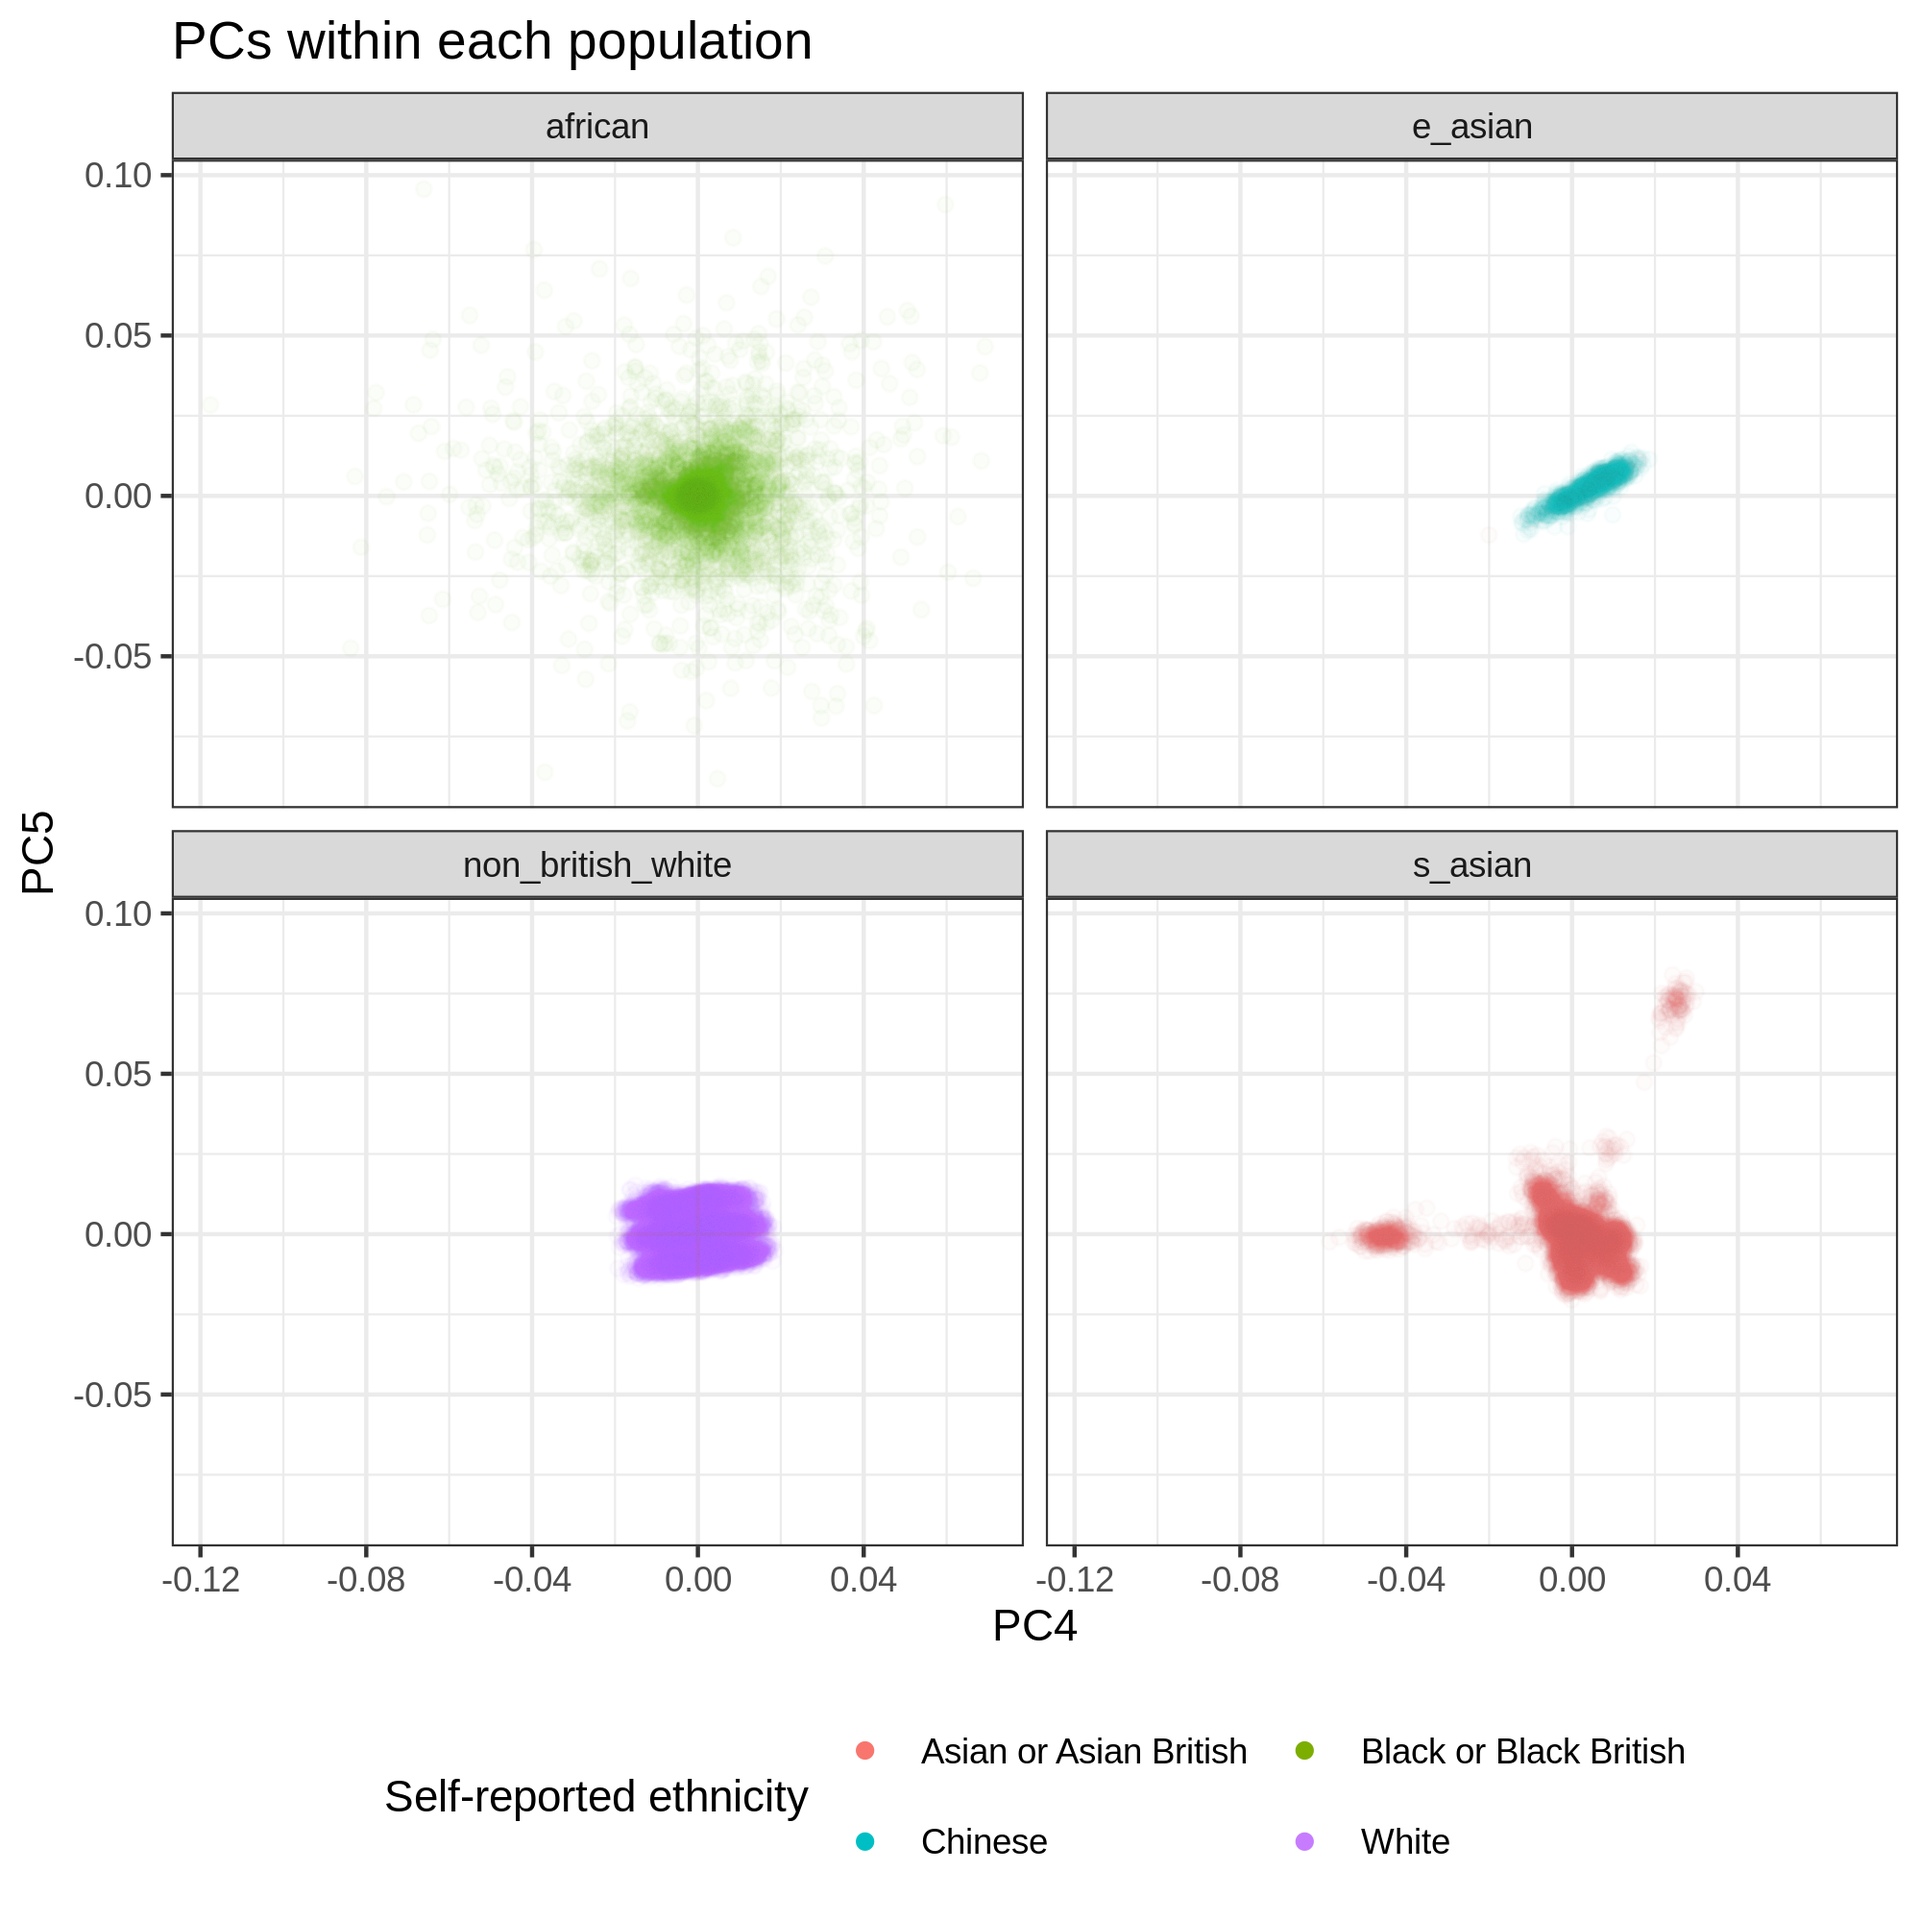
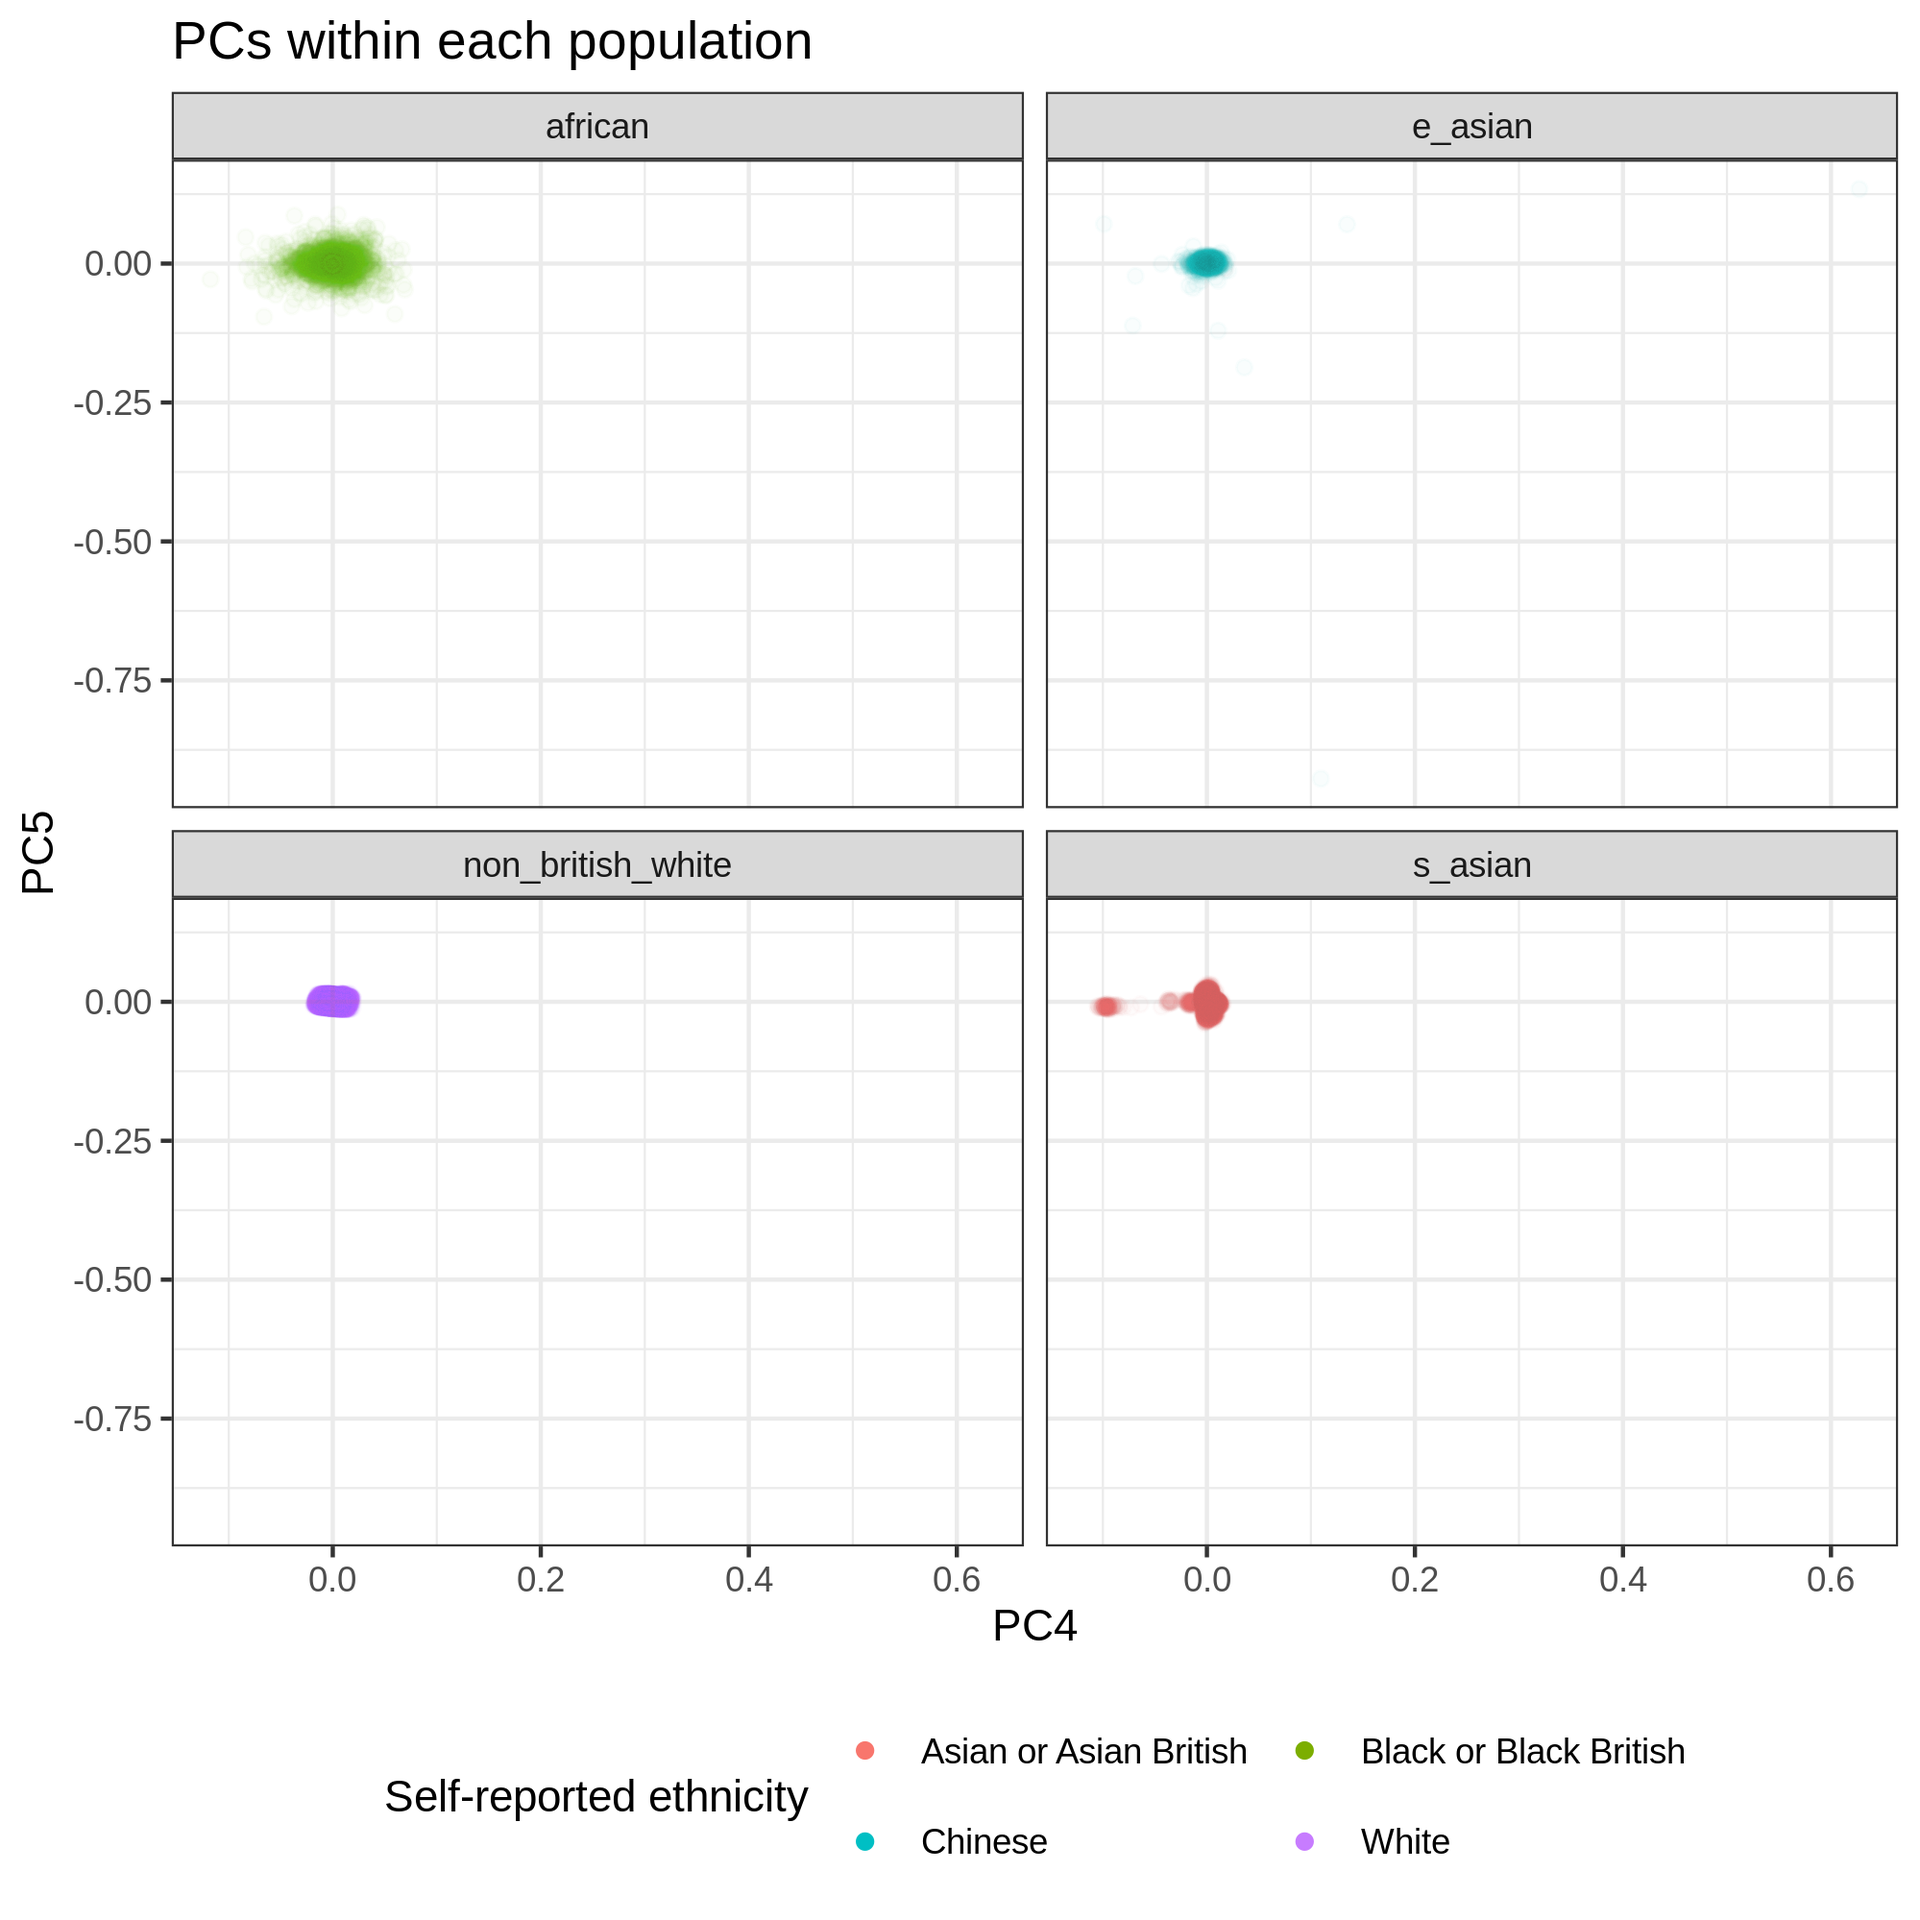
update the local PC plots; update the documentation

diff --git a/03_filtering/README.md b/03_filtering/README.md
@@ -5,9 +5,26 @@ We do not employ sample- and variant-level QC in the traditional sense in this p
 The notebooks in this folder do two distinct tasks:
 
 1) [Go over the overall marker quality of different BioBank arrays](https://github.com/rivas-lab/ukbb-tools/blob/master/03_filtering/Marker_QC.ipynb) (marker_QC.ipynb)
-2) [Redact individuals from the dataset, define populations, and generate the GWAS covariate file](https://github.com/rivas-lab/ukbb-tools/blob/master/03_filtering/sample_qc_v3.1.ipynb) (rsample_qc_v3.1.ipynb)
+2) [sample-level QC, define populations, and generate the GWAS covariate file](https://github.com/rivas-lab/ukbb-tools/blob/master/03_filtering/sample_qc_v3.2.ipynb) (rsample_qc_v3.2.ipynb)
 
-## Sample level QC
+## Variant-level QC
+
+We document variant annotation in [17_annotation](/17_annotation) directory.
+
+### array dataset
+
+The variant QC procedure for the genotyped array dataset is well described in the publications from the lab.
+
+1. [DeBoever, C. et al. Medical relevance of protein-truncating variants across 337,205 individuals in the UK Biobank study. Nature Communications 9, 1612 (2018).](https://doi.org/10.1038/s41467-018-03910-9)
+2. [Tanigawa, Y. et al. Components of genetic associations across 2,138 phenotypes in the UK Biobank highlight adipocyte biology. Nat Commun 10, 1–14 (2019).](https://doi.org/10.1038/s41467-019-11953-9)
+
+The second paper has the variant QC flowchart as Supplementary Figure 1.
+
+### imputation dataset
+
+We have [`imp`](imp) directory to document the QC and filtering procedure for the imputation dataset. Specifically, [`imp/2_var_QC`](imp/2_var_QC) has the variant QC procedure.
+
+## Sample-level QC
 
 ### Participant Withdrawal
 
@@ -35,6 +52,8 @@ $ comm -13 <( sort w24983_20181016.csv ) <( sort w2498_20170726.csv ) | wc -l
 
 ### Population definition
 
+Please see [sample_qc_v3.2.ipynb](sample_qc_v3.2.ipynb) for more details.
+
 #### summary
 
 We used a combination of PCA (on array genotype data) and self-reported ancestry to define the following five population groups
@@ -48,7 +67,19 @@ We used a combination of PCA (on array genotype data) and self-reported ancestry
 In total, we have 378,292 unrelated individuals
 
 - Those files are available: `/oak/stanford/groups/mrivas/ukbb24983/sqc/population_stratification_w24983_20200313`
-  - In the directory, we have 
+- In the directory, we have the following files:
+  - `ukb24983_<population>.phe`: the list of individuals in the population.
+  - `ukb24983_<population>.exclude.phe`: the list of individuals that are not in the population.
+  - `ukb24983_GWAS_covar.20200313.phe`: GWAS covariate file
+  - `ukb24983_master_sqc.20200313.phe`: the all sample QC columns and potentially interesting covariates. The GWAS covariate file is a subset of this file.
+
+##### Self-reported ethnicity
+
+![PC plot for the self-reported ethnicity](figs/sample_qc_v3.2.PCA.self.reported.ethnicity.png)
+
+##### Our population definition
+
+![PC plot for each population](figs/sample_qc_v3.2.PC1.vs.PC2.png)
 
 #### sample-level QC criteria
 
@@ -88,8 +119,48 @@ We defined the following thresholds to define ethnic groups
 
 See more details in notebook (v3.1)
 
-#### Population-specific PCA
+#### Population-specific PCA for further refinement
 
 We applied PCA for 4 populations (all, but White British) and characterized population-specific PCs.
 
 #### Additional clean-up using population specific PCs
+
+Using the population-specific PCs, we refined the definitions for South Asian and East Asian.
+
+##### Non-British White
+
+![PC plot for Non-British White](figs/sample_qc_v3.2.local.PCA.non_british_white.png)
+
+##### African
+
+![PC plot for African](figs/sample_qc_v3.2.local.PCA.african.png)
+
+##### South Asian
+
+![PC plot for South Asian](figs/sample_qc_v3.2.local.PCA.s_asian.png)
+
+##### East Asian
+
+![PC plot for East Asian](figs/sample_qc_v3.2.local.PCA.e_asian.png)
+
+#### Re-computing the population-specific PCs
+
+We recompute the population-specific PCs for the refined populations.
+
+![Local PCs](figs/sample_qc_v3.2.local.PC1.vs.PC2.png)
+
+#### GWAS covariate file
+
+In the GWAS covariate file, we included the followings:
+
+- FID and IID: the family and individual ID
+- population: the final population definition
+- split: train/val/test (70%, 20%, and 10% for each) split for the White British cohort. We used the one from the DeGAs-risk project.
+- age: (computed as 2017 - birth year)
+- age0, age1, age2 and age3: the age of the assessment center visits
+- sex: 1 indicates male; 0 indicates female
+- BMI: The BMI phenotype (from `INI21001.phe` in basket 9796 and table 24611)
+- N_CNV and LEN_CNV: the number and length of CNVs.
+- Array: 1 indicates UKBB array; 0 indicates UKBL array.
+- PC1-PC40: the population-specific PCs for 4 populations (Non-British White, African, South Asian, and East Asian) and the global PCs for White British
+- Global_PC1-Global_PC40: the Global PCs provided by UK Biobank
